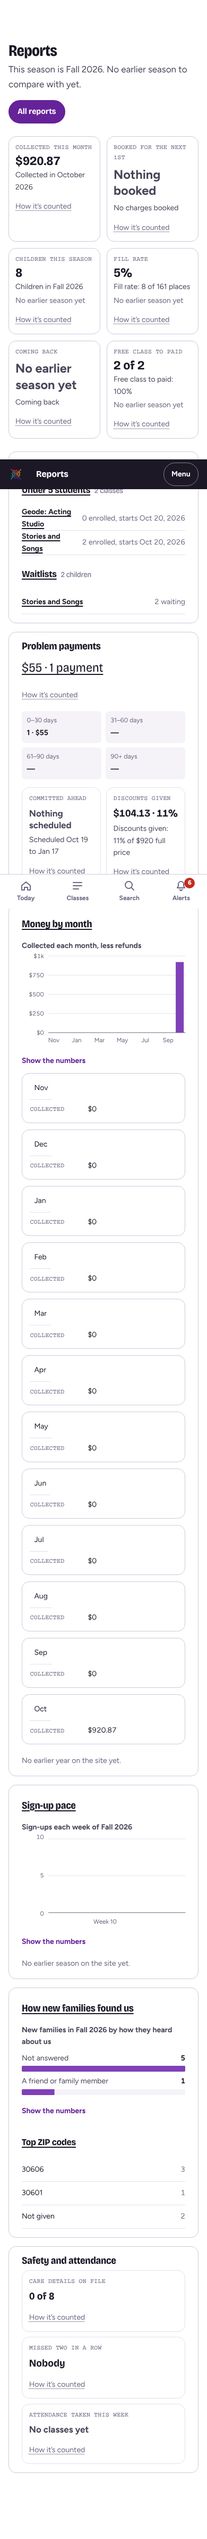
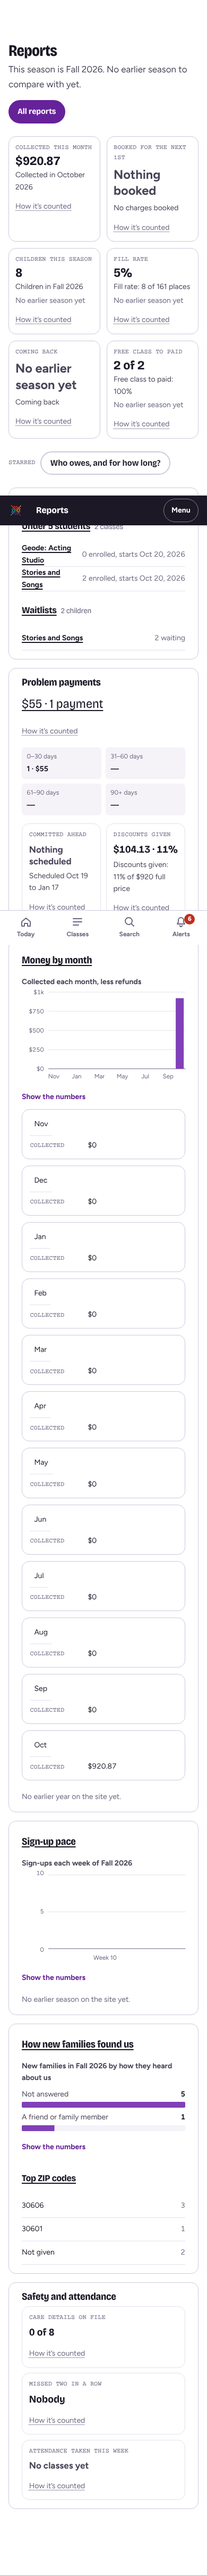
Reports: 44 px links in report tables on phones, dots on the sign-up chart, re-runnable star check

diff --git a/src/styles/reports.css b/src/styles/reports.css
@@ -81,6 +81,10 @@
 .chart__y { position: relative; grid-row: 1; min-width: 2.6rem; font-size: 0.72rem; color: var(--ink-mute); font-variant-numeric: tabular-nums; }
 .chart__y span { position: absolute; right: 0; transform: translateY(50%); line-height: 1; }
 .chart__svg { grid-row: 1; grid-column: 2; width: 100%; height: 100%; overflow: visible; display: block; }
+.chart__area { grid-row: 1; grid-column: 2; position: relative; min-width: 0; }
+.chart__area .chart__svg { position: absolute; inset: 0; }
+.chart__dot { position: absolute; width: 8px; height: 8px; margin: -4px 0 0 -4px; border-radius: 50%; border: 2px solid; background: var(--paper); pointer-events: none; }
+.chart__dot--2 { width: 7px; height: 7px; }
 .chart__grid { stroke: var(--line); stroke-width: 1; }
 .chart__base { stroke: var(--ink-mute); stroke-width: 1; }
 .chart__svg rect:hover { opacity: 0.8; }
